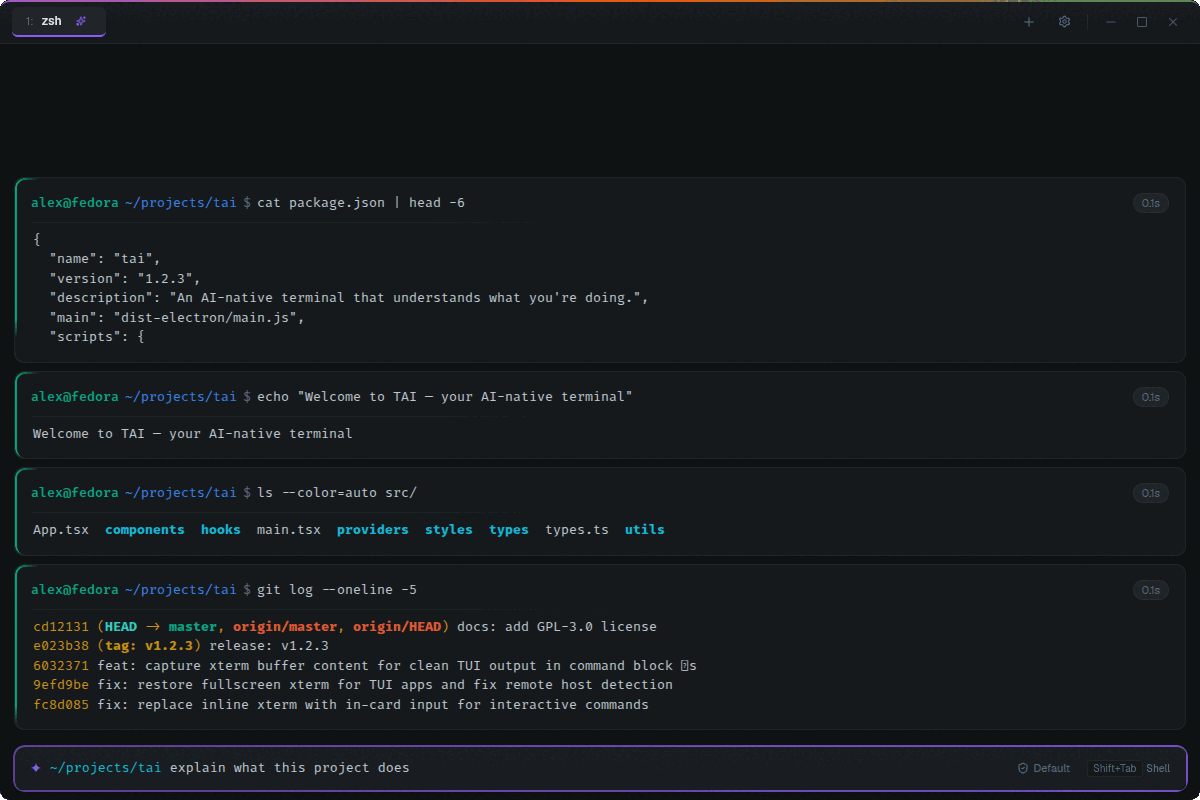
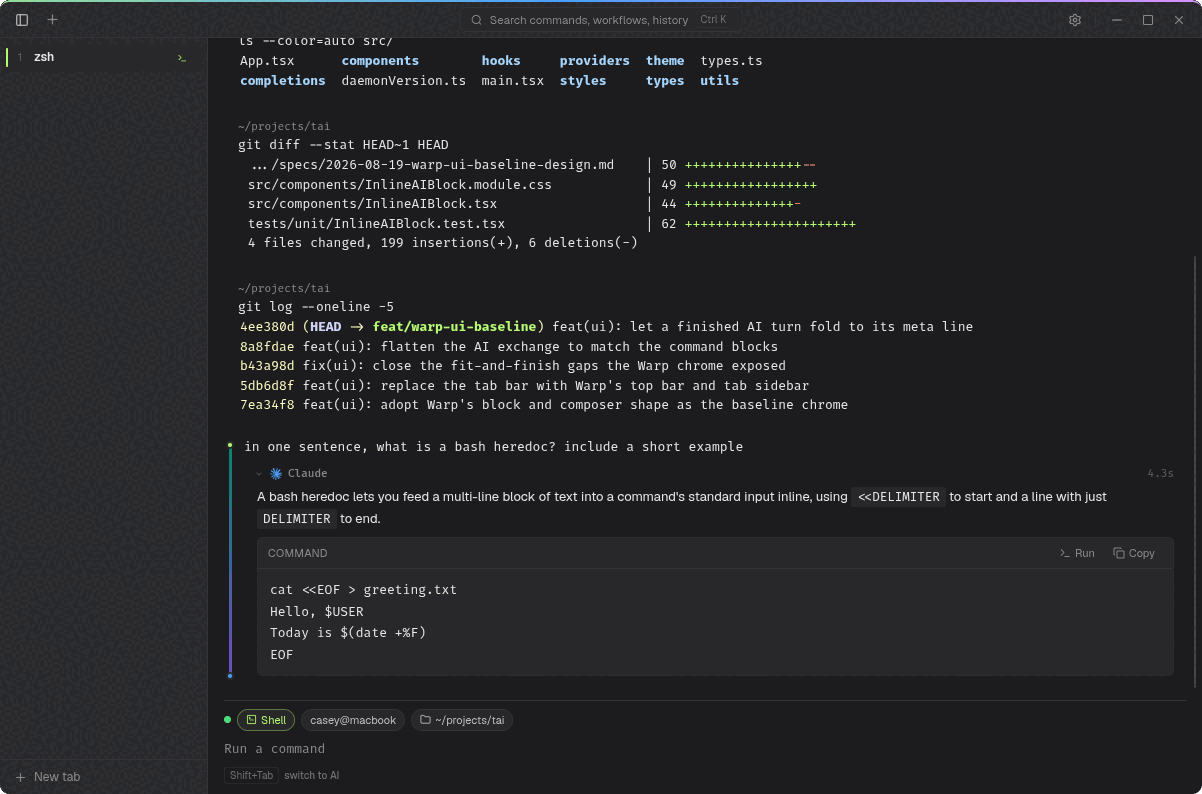
chore(screenshots): retake them against the Warp chrome
The published screenshots still showed the horizontal tab bar, and the
script that makes them could no longer run: the composer is a textarea
now, and it shares the page with xterm's hidden helper textarea, so
`waitForSelector('input')` timed out. `data-composer` marks the real one.

Two further failures were silent rather than loud. The staging commands
were typed before the shell had drawn its first prompt and were dropped,
and the shell integration replays the user's own PROMPT_COMMAND, which
rebuilds PS1 and undoes the demo prompt — between them, a run published
the real username sitting in the real home directory. TAI reads the user,
host and cwd it renders out of the prompt text, so clearing the snapshot
the integration replays is the whole of what anonymises the images; the
script now verifies the prompt took and refuses to publish if it did not.
The block list also had not finished autoscrolling at capture time, which
cropped the newest block out of frame.

The AI shot now asks a real question and waits for the answer. It is
captioned as showing a Markdown reply, and it was showing a composer.

diff --git a/src/components/TerminalInput.tsx b/src/components/TerminalInput.tsx
@@ -528,6 +528,7 @@ export const TerminalInput = forwardRef<TerminalInputHandle, TerminalInputProps>
                 onTrustLevelChange(levels[(idx + 1) % levels.length]);
               }}
               title={`Permissions: ${PERM_LABELS[aiProvider][trustLevel]}`}
+              data-perm-badge={trustLevel}
             >
               {trustLevel === 'bypass'
                 ? <ShieldOff size={12} />
@@ -547,6 +548,7 @@ export const TerminalInput = forwardRef<TerminalInputHandle, TerminalInputProps>
             <textarea
               ref={inputRef}
               className={styles.field}
+              data-composer
               value={value}
               onChange={handleChange}
               onKeyDown={handleKeyDown}
